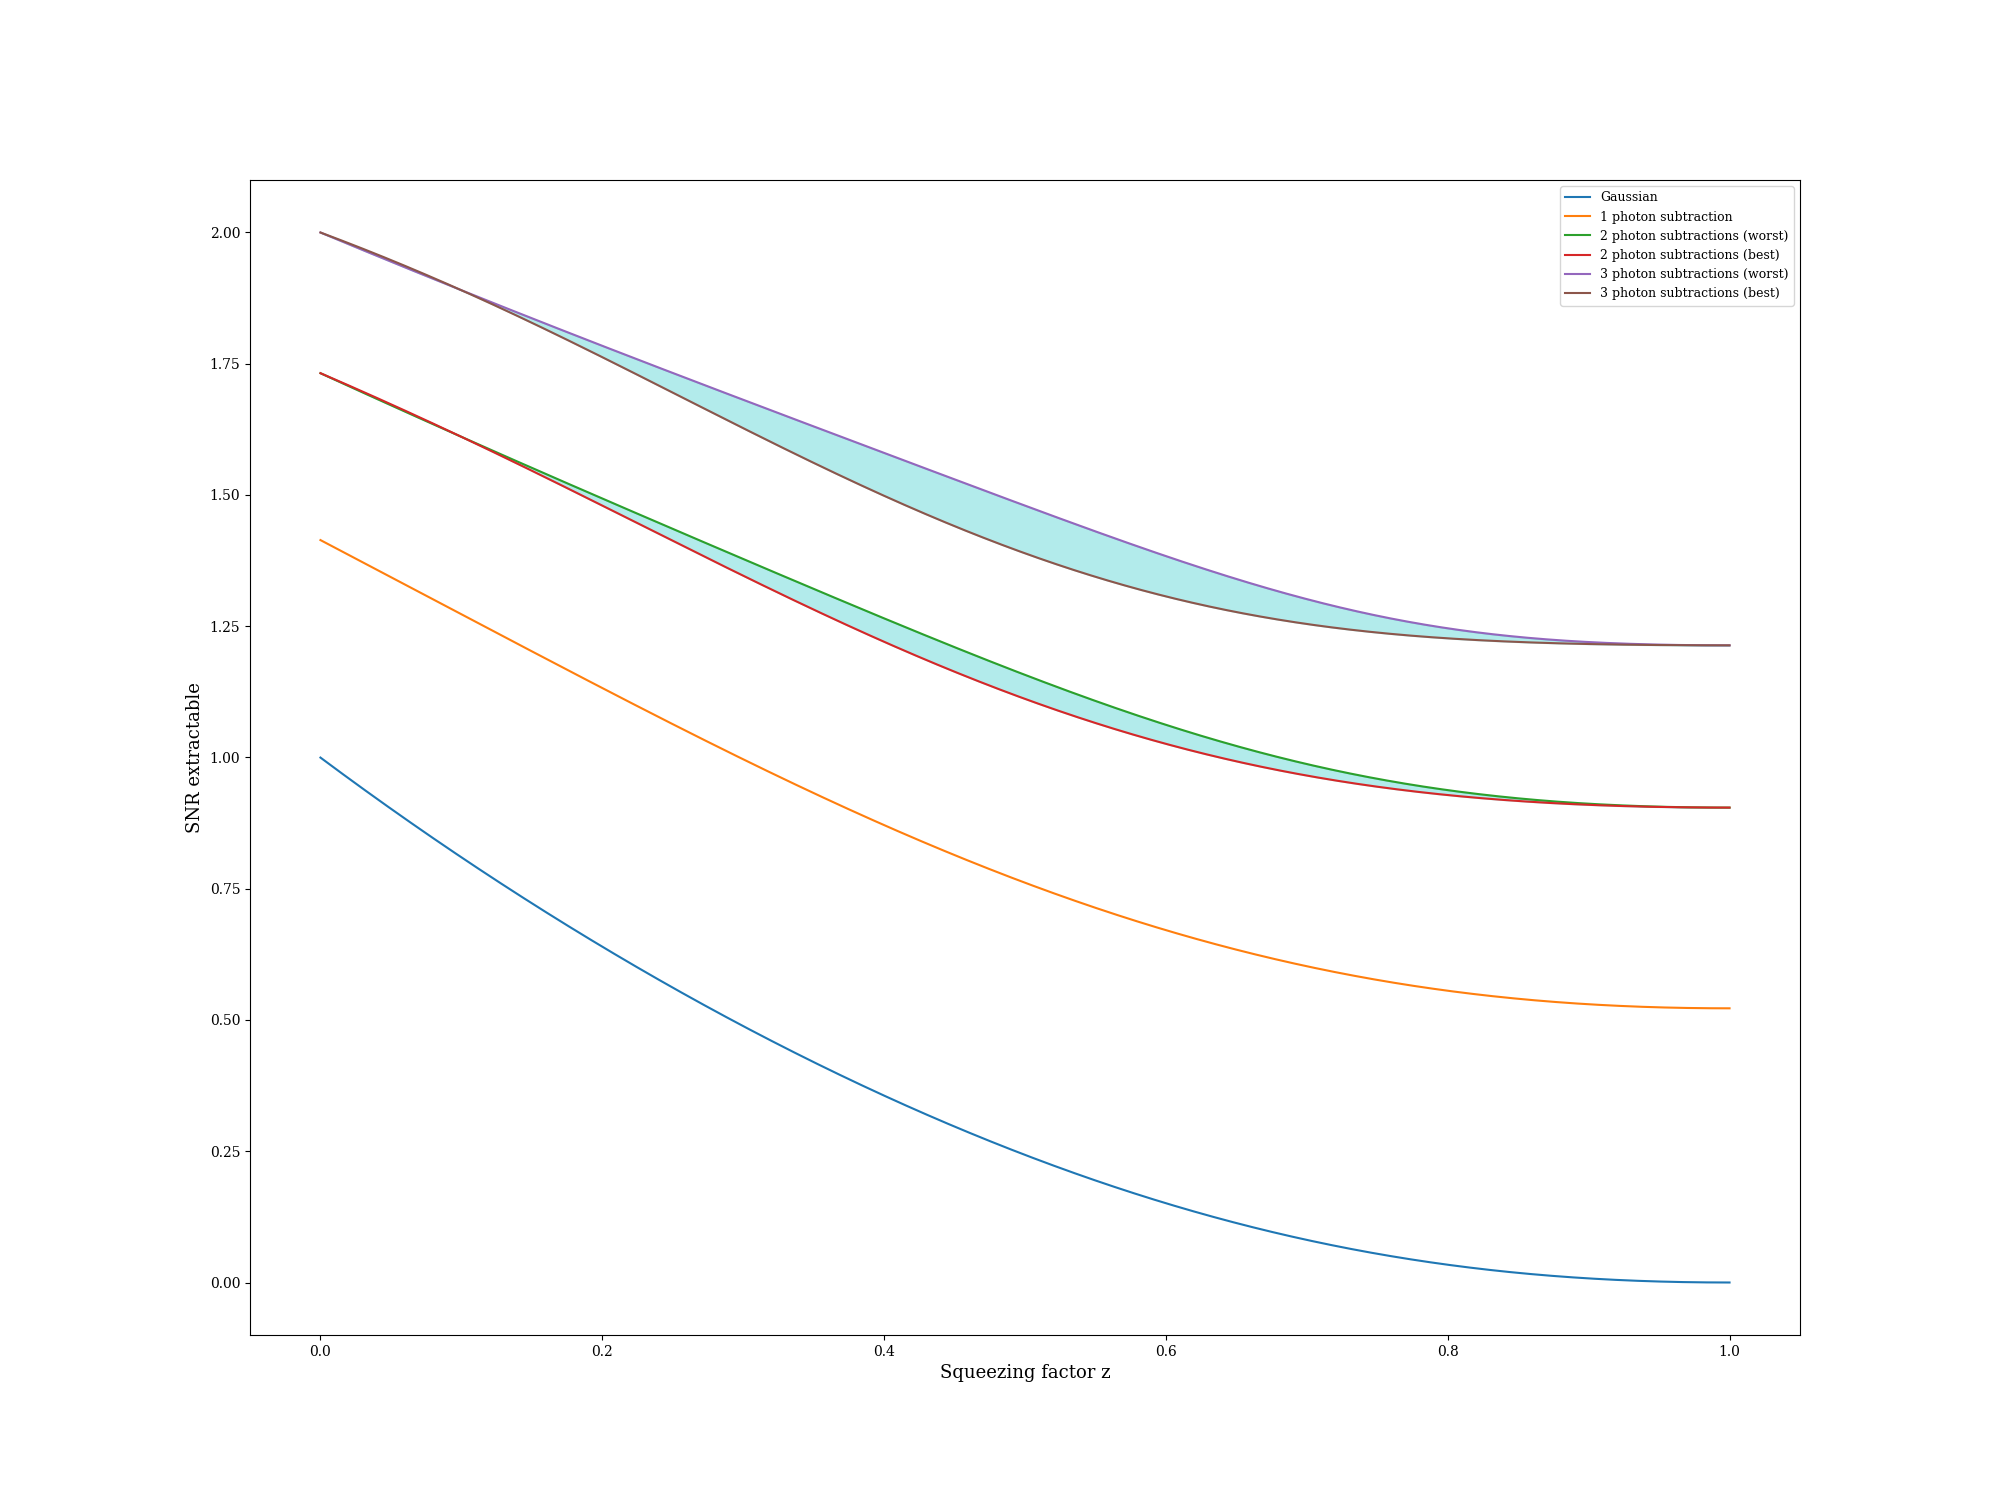
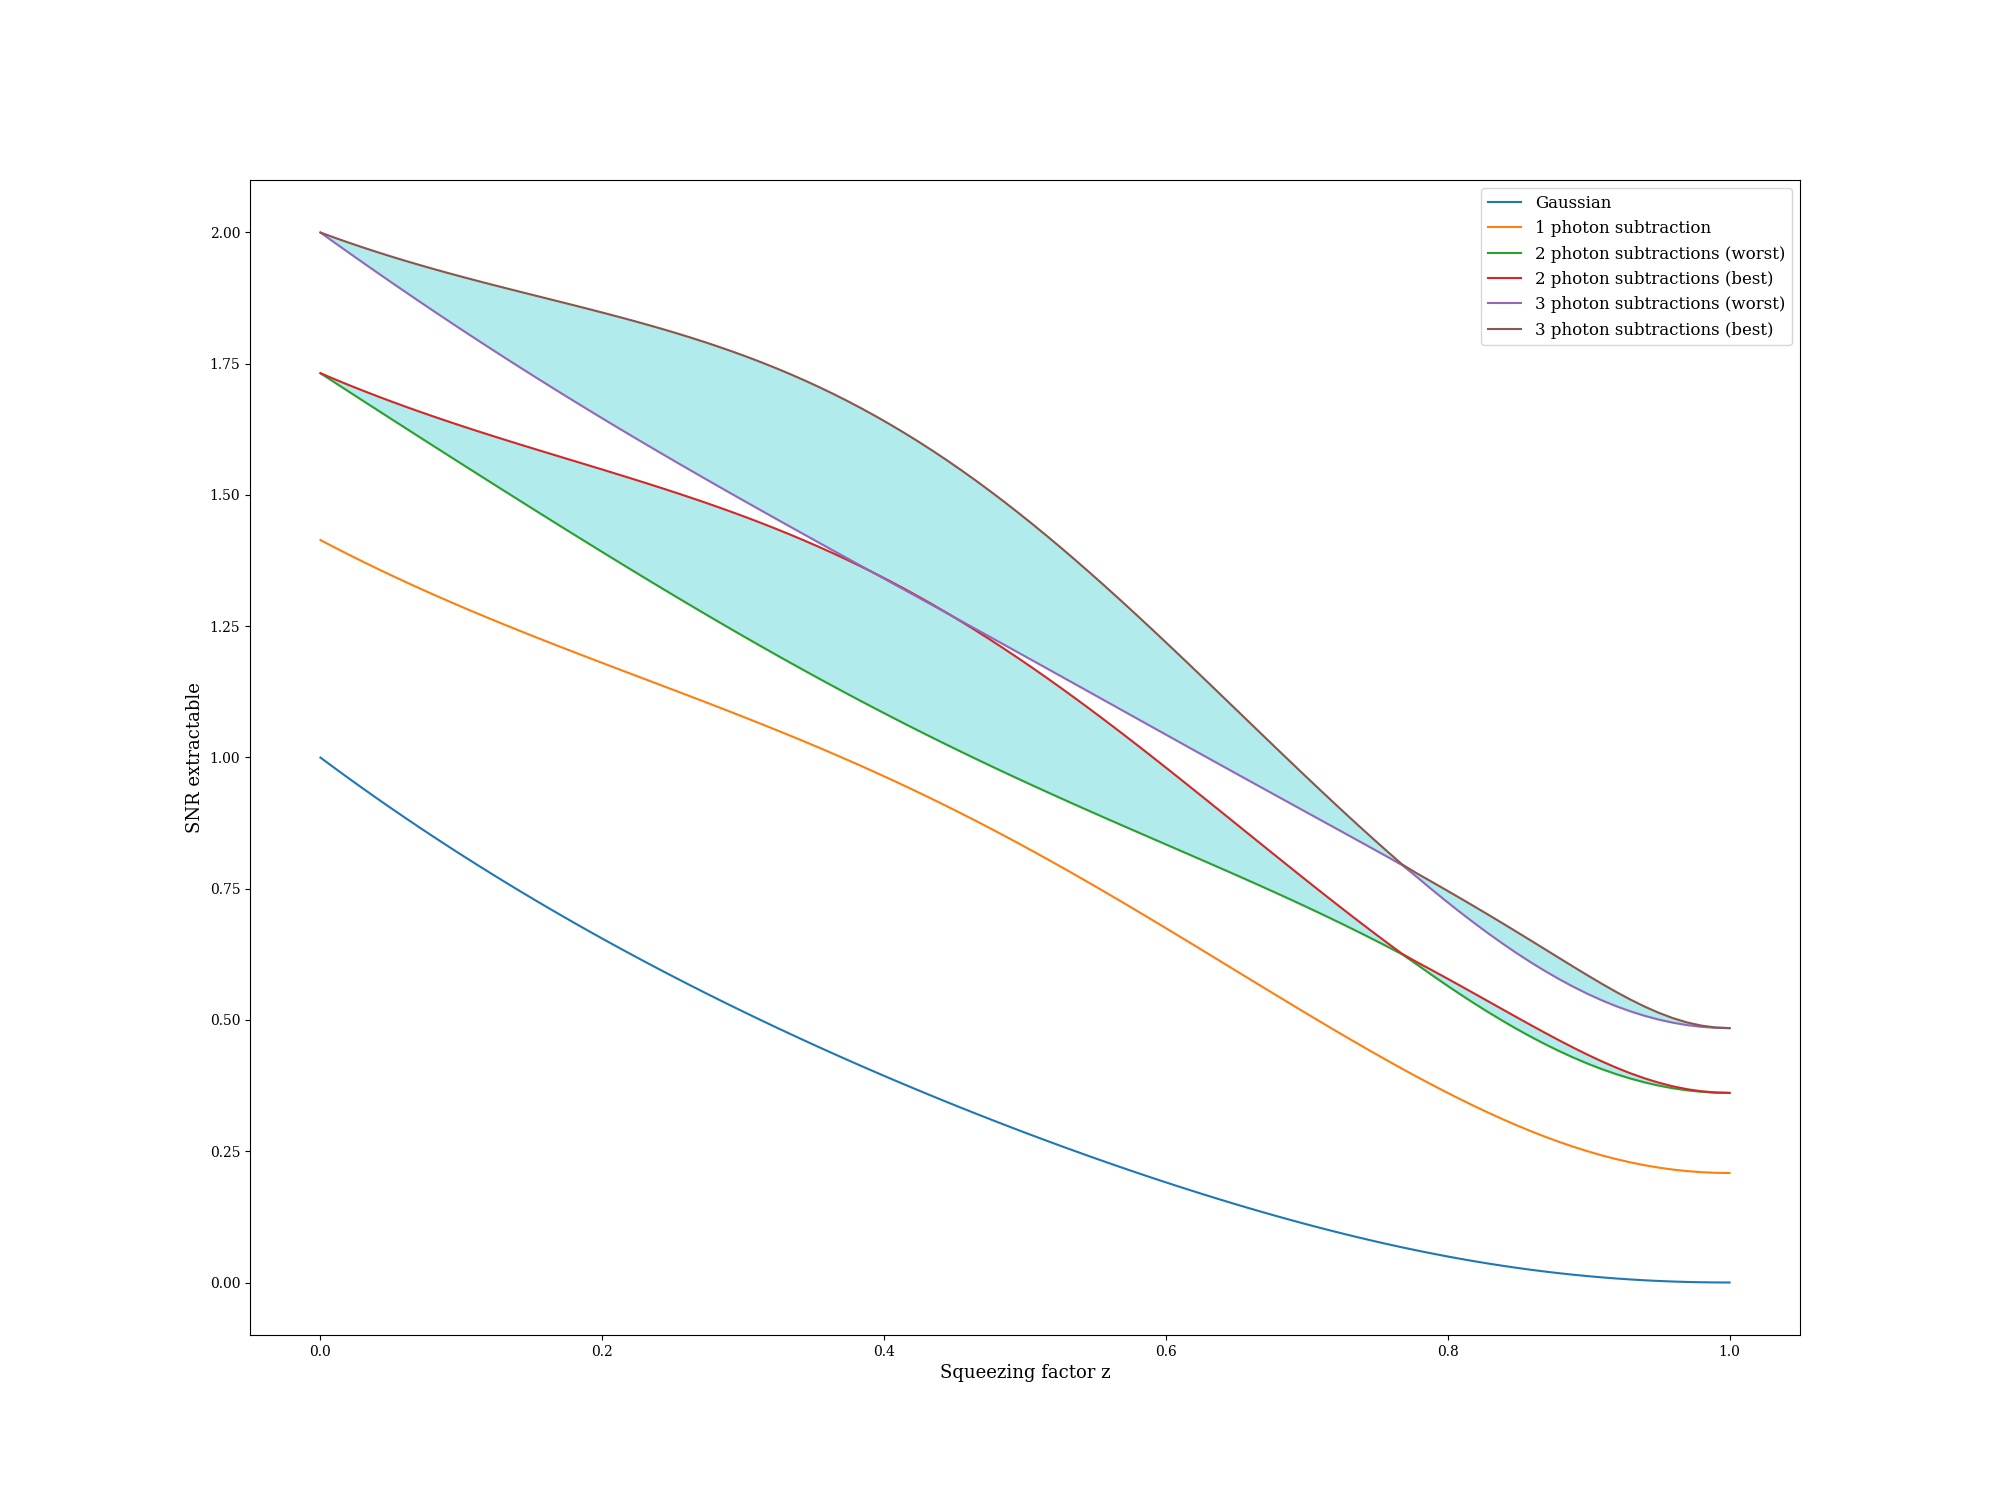
edits to plots (check)

diff --git a/plots.py b/plots.py
@@ -490,7 +490,7 @@ def SV_plots(nongaussian_ops):
   x = np.arange(0, np.pi, 0.005) #for angles
   z_vec=np.linspace(0.25,0.85,10) #squeezing values
   colors = plt.cm.viridis(z_vec)
-  T=1.5
+  T=5
   sigma0=V_thermal(T,[1,1],[0],[0]*2,params=None)
   phi=np.random.rand(2)
   fig,axes=plt.subplots(2,1)
@@ -501,9 +501,10 @@ def SV_plots(nongaussian_ops):
     i=0
     for q in z_vec:
       axup.plot(x, [SV(V_thermal(T,[q,1/q],[w],[0,0],params=None),nongaussian_ops[j]) for w in x], color=colors[i]) 
-      axup.set_title('SV criterion')
+      axup.set_ylabel('SV criterion')
       axdown.plot(x,[SNR_ng_extr(V_thermal(T,[q,1/q],[w],[0,0],params=None),nongaussian_ops[j],sigma0) for w in x], color=colors[i])
-      axdown.set_title('SNR')
+      axdown.set_ylabel('SNR extractable')
+      axdown.set_xlabel('Beam splitter angle θ')
       i+=1
   
   # Adjust layout to make room for the colorbar
@@ -513,7 +514,7 @@ def SV_plots(nongaussian_ops):
   cbar_ax = fig.add_axes([0.9, 0.15, 0.02, 0.7])  # [left, bottom, width, height]
   cbar = fig.colorbar(plt.cm.ScalarMappable(cmap='viridis'), cax=cbar_ax)
   cbar.set_label('Squeezing factor z')
-  plt.savefig('SV-SNR plots nu=1.5.png')
+  plt.savefig('SV-SNR plots nu=1.3, 2 subtractions.png')
 
   #plt.legend(z_vec)
   plt.show()
@@ -533,14 +534,13 @@ def evolution_with_noise_gaussian():
   cmap=cm.rainbow
   norm = mcolors.Normalize(vmin=1, vmax=3)
   for i in range(len(noise)):
-    print(noise[i]) 
     sigma0=V_thermal(noise[i],[1,1],[0],[0]*2,params=None)
     yvec= [SNR_ng_extr(V_thermal(noise[i],[z,1/z],[0],[0,0],params=None),[],sigma0) for z in z_vec]
     ax.plot(z_vec,yvec, color=cmap(norm(noise[i])))
   cbar = plt.colorbar(plt.cm.ScalarMappable(cmap=cmap, norm=norm), ax=ax, location='right') 
   cbar.set_label('Noise',fontsize=13)
-  ax.set_xlabel('Squeezing parameter z',fontsize=13)
-  ax.set_ylabel('SNR extractable',fontsize=13)
+  ax.set_xlabel('Squeezing parameter z',fontsize=20)
+  ax.set_ylabel('SNR extractable',fontsize=20)
   #ax.set_title('SNR as a function of squeezing')
   plt.savefig('gaussian_extr_snr_with noise.png')
   plt.show()
@@ -549,38 +549,64 @@ def evolution_with_noise_gaussian():
 def bounds():
   fig, ax = plt.subplots(1, 1, figsize=(20, 15))
   plt.rc('font', family='serif')
-  x=np.linspace(0.00000001,np.pi,100)
-  nu=10
-  z_vec=np.linspace(0.0001,1,1000)
-  mat_worst=[V_thermal(nu,[z,1/z],[0],[0,0],params=None) for z in z_vec]
-  sigma0=V_thermal(nu,[1,1],[0],[0,0],params=None)
-  mat_best=[V_thermal(nu,[z,1/z],[np.pi/4],[0,0],params=None) for z in z_vec]
-
+  x_vec=np.linspace(0.00000001,np.pi,100)
+  nu=1.3
   factor=-1
   if factor==-1:
     operation='subtraction'
   else:
     operation='addition'
-  ax.plot(z_vec,[SNR_gaussian_extr(mat_worst[i],sigma0) for i in range(len(z_vec))])
-  ax.plot(z_vec,[SNR_ng_extr(mat_worst[i],[factor],sigma0) for i in range(len(z_vec))])
-  two_worst=[SNR_ng_extr(mat_worst[i],[factor,factor],sigma0) for i in range(len(z_vec))]
-  two_best=[SNR_ng_extr(mat_best[i],[factor,factor],sigma0) for i in range(len(z_vec))]
-  three_worst=[SNR_ng_extr(mat_worst[i],[factor,factor,factor],sigma0) for i in range(len(z_vec))]
-  three_best=[SNR_ng_extr(mat_best[i],[factor,factor,factor],sigma0) for i in range(len(z_vec))]
+  z_vec=np.linspace(0.0001,1,100)
+  sigma=[V_thermal(nu,[z_vec[i],1/z_vec[i]],[0],[0,0],params=None) for i in range(len(z_vec))]
+  sigma0=V_thermal(nu,[1,1],[0],[0,0],params=None)
+  two_worst=[]
+  two_best=[]
+  three_worst=[]
+  three_best=[]
+  for z in z_vec:
+    two_worst+=[np.min([SNR_ng_extr(V_thermal(nu,[z,1/z],[0],[0,0]),[factor,factor],sigma0),SNR_ng_extr(V_thermal(nu,[z,1/z],[np.pi/4],[0,0]),[factor,factor],sigma0)])]
+    two_best+=[np.max([SNR_ng_extr(V_thermal(nu,[z,1/z],[0],[0,0]),[factor,factor],sigma0),SNR_ng_extr(V_thermal(nu,[z,1/z],[np.pi/4],[0,0]),[factor,factor],sigma0)])]
+    three_worst+=[np.min([SNR_ng_extr(V_thermal(nu,[z,1/z],[0],[0,0]),[factor,factor,factor],sigma0),SNR_ng_extr(V_thermal(nu,[z,1/z],[np.pi/4],[0,0]),[factor,factor,factor],sigma0)])]
+    three_best+=[np.max([SNR_ng_extr(V_thermal(nu,[z,1/z],[0],[0,0]),[factor,factor,factor],sigma0),SNR_ng_extr(V_thermal(nu,[z,1/z],[np.pi/4],[0,0]),[factor,factor,factor],sigma0)])]
+
+  
+  ax.plot(z_vec,[SNR_gaussian_extr(sigma[i],sigma0) for i in range(len(z_vec))])
+  ax.plot(z_vec,[SNR_ng_extr(sigma[i],[factor],sigma0) for i in range(len(z_vec))])
   ax.plot(z_vec,two_worst)
   ax.plot(z_vec,two_best)
   ax.plot(z_vec,three_worst)
   ax.plot(z_vec,three_best)
   ax.fill_between(z_vec,two_worst,two_best, color='c',alpha=0.3)
   ax.fill_between(z_vec,three_worst,three_best, color='c', alpha=0.3)
-  plt.legend(['Gaussian',f'1 photon {operation}',f'2 photon {operation}s (worst)',f'2 photon {operation}s (best)',f'3 photon {operation}s (worst)',f'3 photon {operation}s (best)'], fontsize=9)
+  plt.legend(['Gaussian',f'1 photon {operation}',f'2 photon {operation}s (worst)',f'2 photon {operation}s (best)',f'3 photon {operation}s (worst)',f'3 photon {operation}s (best)'], fontsize=12)
   ax.set_xlabel('Squeezing factor z',fontsize=13)
   ax.set_ylabel('SNR extractable',fontsize=13) 
   #plt.title('Evolution of SNR and extractable SNR with squeezing factor' )
   plt.savefig(f'bounds {operation}')
   plt.show()
 
+def critical_temp():
+  epsilon=0.001
+  nu_vec=np.linspace(1.5,100,1000)
+  sigma0=[V_thermal(nu,[1,1],[0],[0,0],params=None) for nu in nu_vec]
+  sigma_right=[V_thermal(nu,[1,1],[0],[0,0],params=None) for nu in nu_vec]
+  sigma_left=[V_thermal(nu,[1-epsilon,1/(1-epsilon)],[0],[0,0],params=None) for nu in nu_vec]
+  derivative_0 = [(SNR_gaussian_extr(sigma_right[i],sigma0[i])-SNR_gaussian_extr(sigma_left[i],sigma0[i]))/epsilon for i in range(len(nu_vec))]
+  derivative_1 = [(SNR_ng_extr(sigma_right[i],[1],sigma0[i])-SNR_ng_extr(sigma_left[i],[1],sigma0[i]))/epsilon for i in range(len(nu_vec))]
+  derivative_2 = [(SNR_ng_extr(sigma_right[i],[+1,+1],sigma0[i])-SNR_ng_extr(sigma_left[i],[+1,+1],sigma0[i]))/epsilon for i in range(len(nu_vec))]
+  derivative_3 = [(SNR_ng_extr(sigma_right[i],[+1,+1,+1],sigma0[i])-SNR_ng_extr(sigma_left[i],[+1,+1,+1],sigma0[i]))/epsilon for i in range(len(nu_vec))]
+  plt.plot(nu_vec,derivative_0)
+  plt.plot(nu_vec,derivative_1)
+  plt.plot(nu_vec,derivative_2)
+  plt.plot(nu_vec,derivative_3)
+  plt.plot(nu_vec,[0]*len(nu_vec),'--')
+  plt.xlabel('Noise', fontsize=13)
+  plt.ylabel('Slope of SNR function at the Fock state', fontsize=13)
+  plt.show()
+
+
+#critical_temp()
 #PLOTS FOR THESIS:
-#bounds()
+bounds()
 #evolution_with_noise_gaussian()
-SV_plots([[-1,-1]])
+#SV_plots([[+1,+1]])
